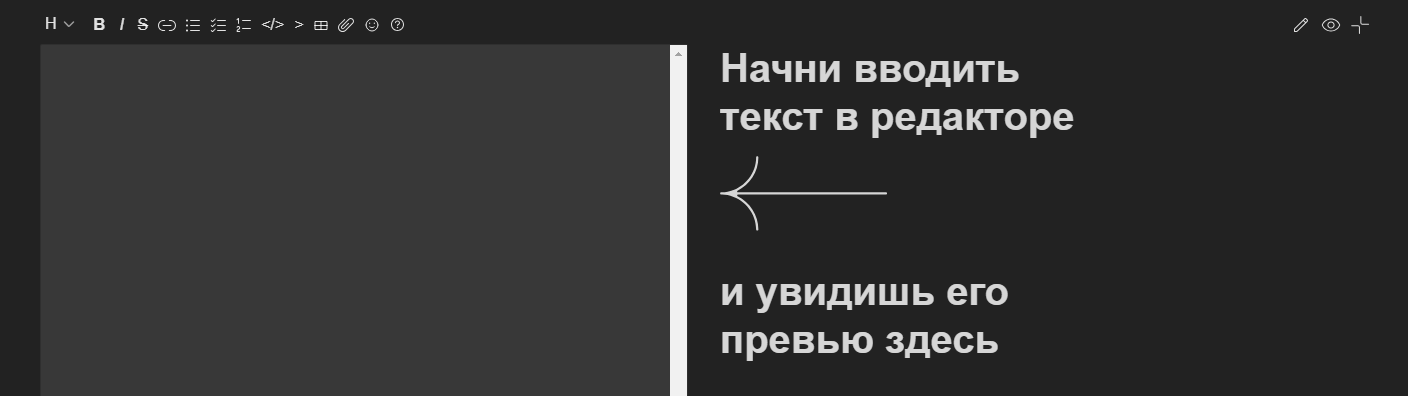
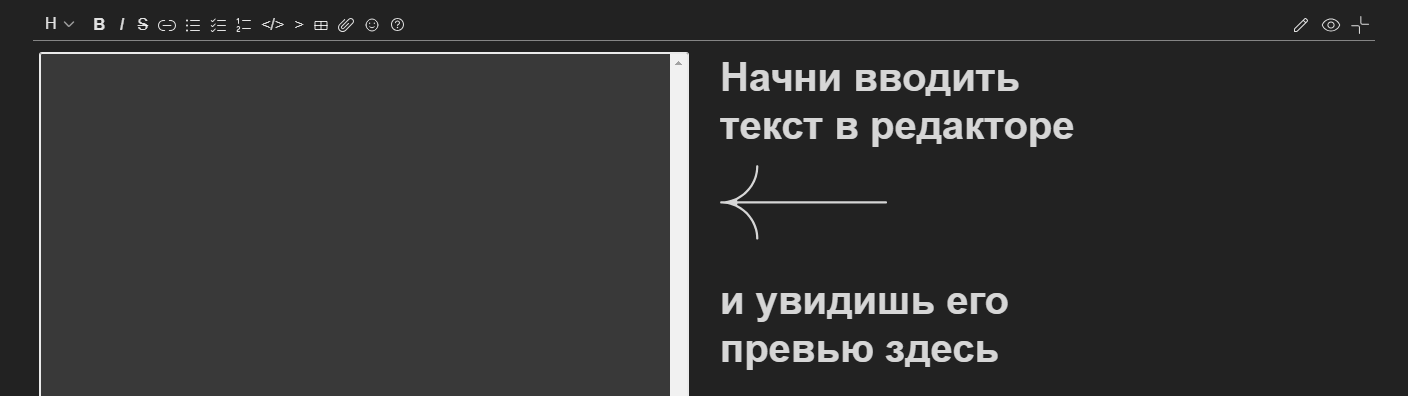
Fix width in split mode

diff --git a/src/Markdown/Markdown.tsx b/src/Markdown/Markdown.tsx
@@ -181,7 +181,11 @@ export const Markdown: FC<MarkdownProps> = props => {
         {fullscreen && viewMode === ViewMode.Split && !fullscreenTextareaPadding && (
           <SplitViewContainer>
             <SplitViewEditContainer>{renderEditContainer()}</SplitViewEditContainer>
-            <SplitViewPreviewContainer textareaWidth={textareaProps.width}>{renderPreview()}</SplitViewPreviewContainer>
+            <SplitViewPreviewContainer
+              textareaWidth={textareaProps.width?.toString().includes('%') ? initialWidth : textareaProps.width}
+            >
+              {renderPreview()}
+            </SplitViewPreviewContainer>
           </SplitViewContainer>
         )}
         {viewMode === ViewMode.Edit && renderEditContainer()}
@@ -244,6 +248,7 @@ export const Markdown: FC<MarkdownProps> = props => {
         {showMention && renderMentions()}
         <MarkdownEditor
           {...textareaProps}
+          maxRows={fullscreen ? undefined : textareaProps.maxRows}
           width={width}
           textareaRef={textareaRef}
           onChange={listenChange}
@@ -258,7 +263,7 @@ export const Markdown: FC<MarkdownProps> = props => {
     if (!props.value && viewMode === ViewMode.Split) return <EmptyPreview />;
 
     return (
-      <MarkdownPreview {...horizontalPaddings} width={width}>
+      <MarkdownPreview {...horizontalPaddings} viewMode={viewMode} width={width}>
         {markdownViewer?.(props.value as string) || (
           <MarkdownViewer
             source={(props.value as string) ?? ''}

diff --git a/src/Markdown/Markdown.styled.ts b/src/Markdown/Markdown.styled.ts
@@ -108,8 +108,13 @@ export const DroppablePlaceholder = styled.div<HorizontalPaddings>`
 
 export const MentionWrapper = styled.div``;
 
-export const MarkdownPreview = styled.div<WrapperBaseProps>`
-  padding: 6px ${({ panelPadding, fullscreenPadding }) => fullscreenPadding ?? panelPadding ?? 8}px;
+export const MarkdownPreview = styled.div<WrapperBaseProps & { viewMode: ViewMode }>`
+  padding: 6px
+    ${({ panelPadding, fullscreenPadding, viewMode }) => {
+      if (viewMode === ViewMode.Split) return 0;
+
+      return fullscreenPadding ?? panelPadding ?? 8;
+    }}px;
   ${p => p.width && `width: ${getAllowedCssValue(p.width)};`}
   box-sizing: border-box;
 `;
@@ -306,10 +311,11 @@ export const getMarkdownReactUiTheme = (
       selectLineHeightSmall: '24px',
       dropdownBorderWidth: '0',
       ...(panelHorizontalPadding &&
+        !isSplitMode &&
         (extendThemeConfigWithSized({
           textareaPaddingX: `${panelHorizontalPadding}px`,
         }) as ReactUIThemeType)),
-      ...((borderless || isFullscreenNotSplitMode) && borderlessTextareaVariables),
+      ...((borderless || (isFullscreen && viewMode === ViewMode.Edit)) && borderlessTextareaVariables),
       ...(isFullscreen &&
         ({
           sidePagePaddingLeft: sidePagePaddingX,

diff --git a/src/Markdown/__stories__/Markdown.stories.tsx b/src/Markdown/__stories__/Markdown.stories.tsx
@@ -40,7 +40,7 @@ const apiMock: MarkdownApi = {
   getUsersApi: () => new Promise<User[]>(resolve => resolve([{ id: '1', name: 'Максим', login: 'login', teams: [] }])),
 };
 
-export const MediumSize: Story = args => <Markdown {...args} value={allVariantsMarkdownMock} />;
+export const MediumSize: Story = args => <Markdown {...args} width="100%" value={allVariantsMarkdownMock} />;
 MediumSize.args = {
   size: 'medium',
 };
@@ -159,17 +159,17 @@ Viewer.parameters = {
   creevey: { delay: 5000 },
 };
 
-export const WithEmoji = args => {
+export const WithEmoji = (args: any) => {
   return <Markdown {...args} value={emojiMarkdownMock} />;
 };
 
-export const WithEmojiEditable = args => {
+export const WithEmojiEditable = (args: any) => {
   const [value, setValue] = useState<string>('');
 
   return <Markdown {...args} value={value} onValueChange={setValue} />;
 };
 
-export const HiddenOptions = args => {
+export const HiddenOptions = () => {
   const wrapStyles: CSSProperties = {
     display: 'flex',
     flexDirection: 'column',
